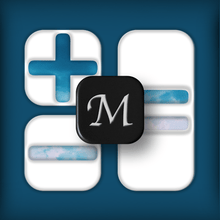
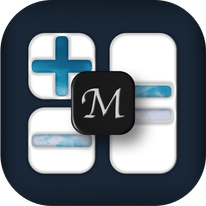
feat: dodano politykę bezpieczeństwa treści (CSP) oraz zaktualizowano wersję aplikacji do v0.99.24
- Dodano nagłówek CSP, aby zabezpieczyć aplikację przed atakami XSS, umożliwiając jednocześnie użycie stylów inline.
- Zaktualizowano plik sw.js, aby dodać skrypt theme-init.js do pamięci podręcznej.
- Zmieniono wersję aplikacji z v0.99.23 na v0.99.24.

diff --git a/index.html b/index.html
@@ -8,6 +8,9 @@
          color-scheme na :root / [data-theme="dark"], więc selecty/inputy/scrollbary pasują
          do wybranego motywu (nie do systemu). -->
     <meta name="color-scheme" content="light dark">
+    <!-- [EN] CSP — app is fully local/offline, so everything locks to 'self'.
+         style-src 'unsafe-inline' bo kilka legacy atrybutów style="" w markupie. -->
+    <meta http-equiv="Content-Security-Policy" content="default-src 'self'; script-src 'self'; style-src 'self' 'unsafe-inline'; img-src 'self' data: blob:; font-src 'self'; connect-src 'self'; worker-src 'self'; manifest-src 'self'; object-src 'none'; base-uri 'self'; form-action 'self'">
     <meta name="apple-mobile-web-app-capable" content="yes">
     <meta name="apple-mobile-web-app-status-bar-style" content="default">
     <meta name="apple-mobile-web-app-title" content="Smart Kalkulator">
@@ -15,17 +18,9 @@
     <meta name="theme-color" content="#2563eb" id="metaThemeColor">
     <!-- Ustaw motyw NATYCHMIAST (przed CSS/paint), by splash i pierwsza klatka nie mignęły
          jasnym tłem przy wybranym/systemowym dark. Lekki klucz osobny (matm0_theme):
-         'dark' | 'light' | brak = auto (śledzi system). -->
-    <script>
-        (function () {
-            try {
-                var pref = localStorage.getItem('matm0_theme');
-                var dark = pref === 'dark' || (pref !== 'light' &&
-                    window.matchMedia && window.matchMedia('(prefers-color-scheme: dark)').matches);
-                if (dark) document.documentElement.setAttribute('data-theme', 'dark');
-            } catch (e) {}
-        })();
-    </script>
+         'dark' | 'light' | brak = auto (śledzi system).
+         [EN] External file (not inline) so CSP stays script-src 'self'; sync load before CSS. -->
+    <script src="js/theme-init.js"></script>
     <meta name="application-name" content="Smart Kalkulator">
     <meta name="format-detection" content="telephone=no">
     <meta name="description" content="Szwajcarski scyzoryk do obliczeń codziennych i technicznych">

diff --git a/js/theme-init.js b/js/theme-init.js
@@ -1,0 +1,11 @@
+/* [EN] Theme bootstrap — runs BEFORE CSS paint so splash/first frame doesn't flash
+   light background in dark mode. External file (not inline) so CSP can stay
+   script-src 'self'. Loaded synchronously in <head> before the stylesheet. */
+(function () {
+    try {
+        var pref = localStorage.getItem('matm0_theme');
+        var dark = pref === 'dark' || (pref !== 'light' &&
+            window.matchMedia && window.matchMedia('(prefers-color-scheme: dark)').matches);
+        if (dark) document.documentElement.setAttribute('data-theme', 'dark');
+    } catch (e) {}
+})();

diff --git a/version.js b/version.js
@@ -6,7 +6,7 @@
    Legacy 'v95' (no dot) maps to 0.95 for comparison.
    ============================================================ */
 
-var APP_VERSION = 'v0.99.23';
+var APP_VERSION = 'v0.99.24';
 
 /* [EN] Parse version label → comparable tuple [major, minor, patch]. */
 function parseAppVersion(label) {

diff --git a/sw.js b/sw.js
@@ -16,6 +16,7 @@ const ASSETS_TO_CACHE = [
     './assets/img/logo-mateusz-transparent-pod-loading.png',
     './assets/img/logo-refresh.png',
     './sw.js',
+    './js/theme-init.js',
     './js/calc-layout-tune.js',
     './js/cursor-hint.js',
     './js/data-tables.js',